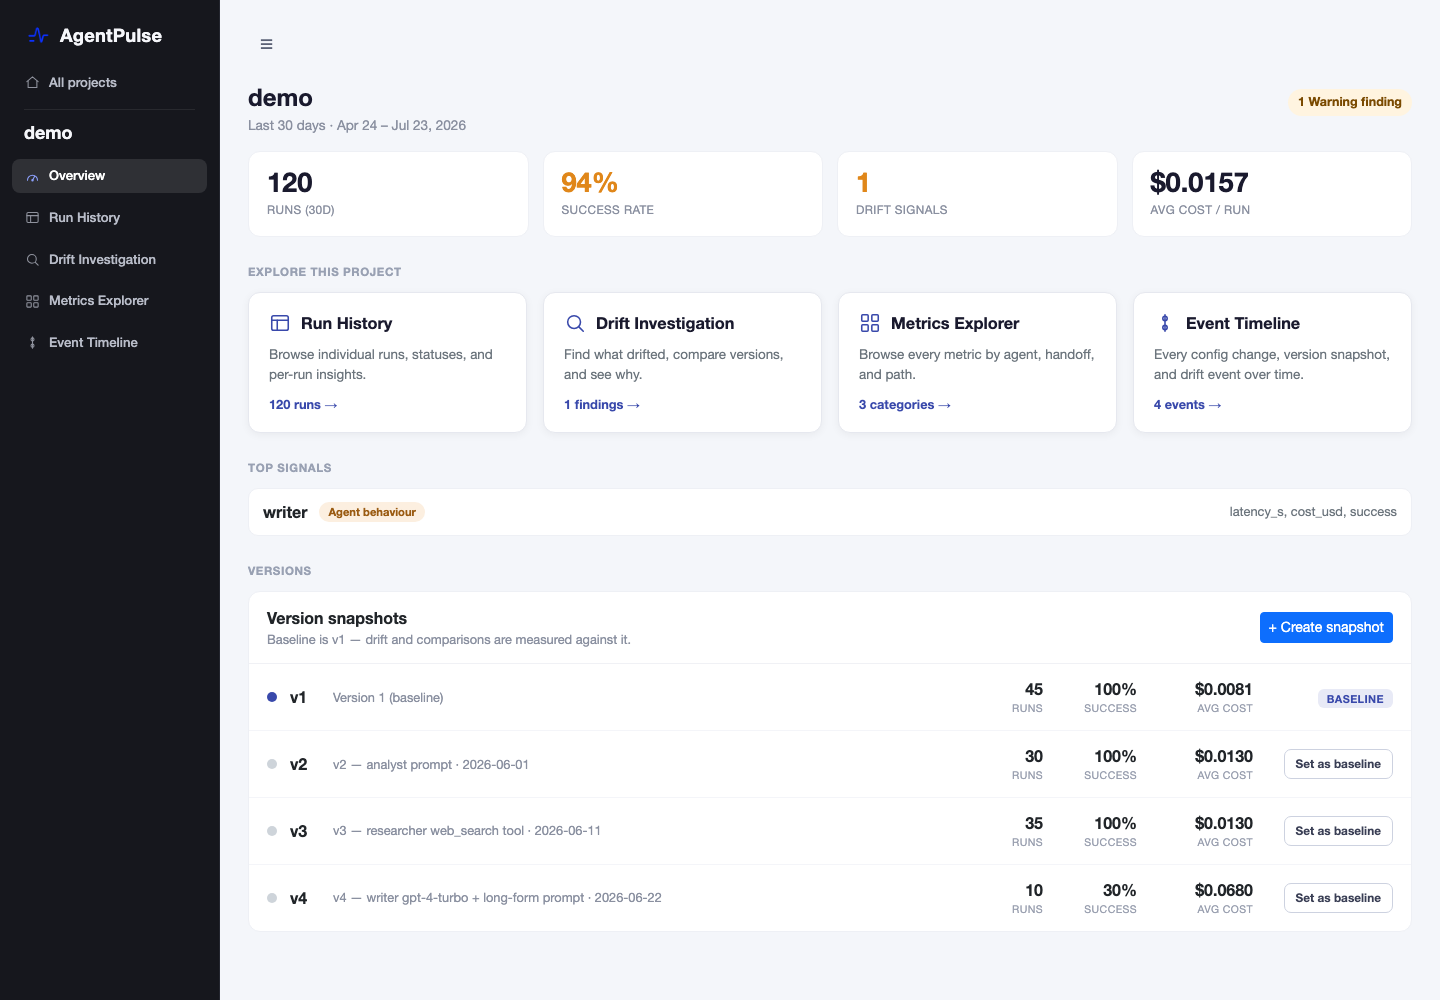
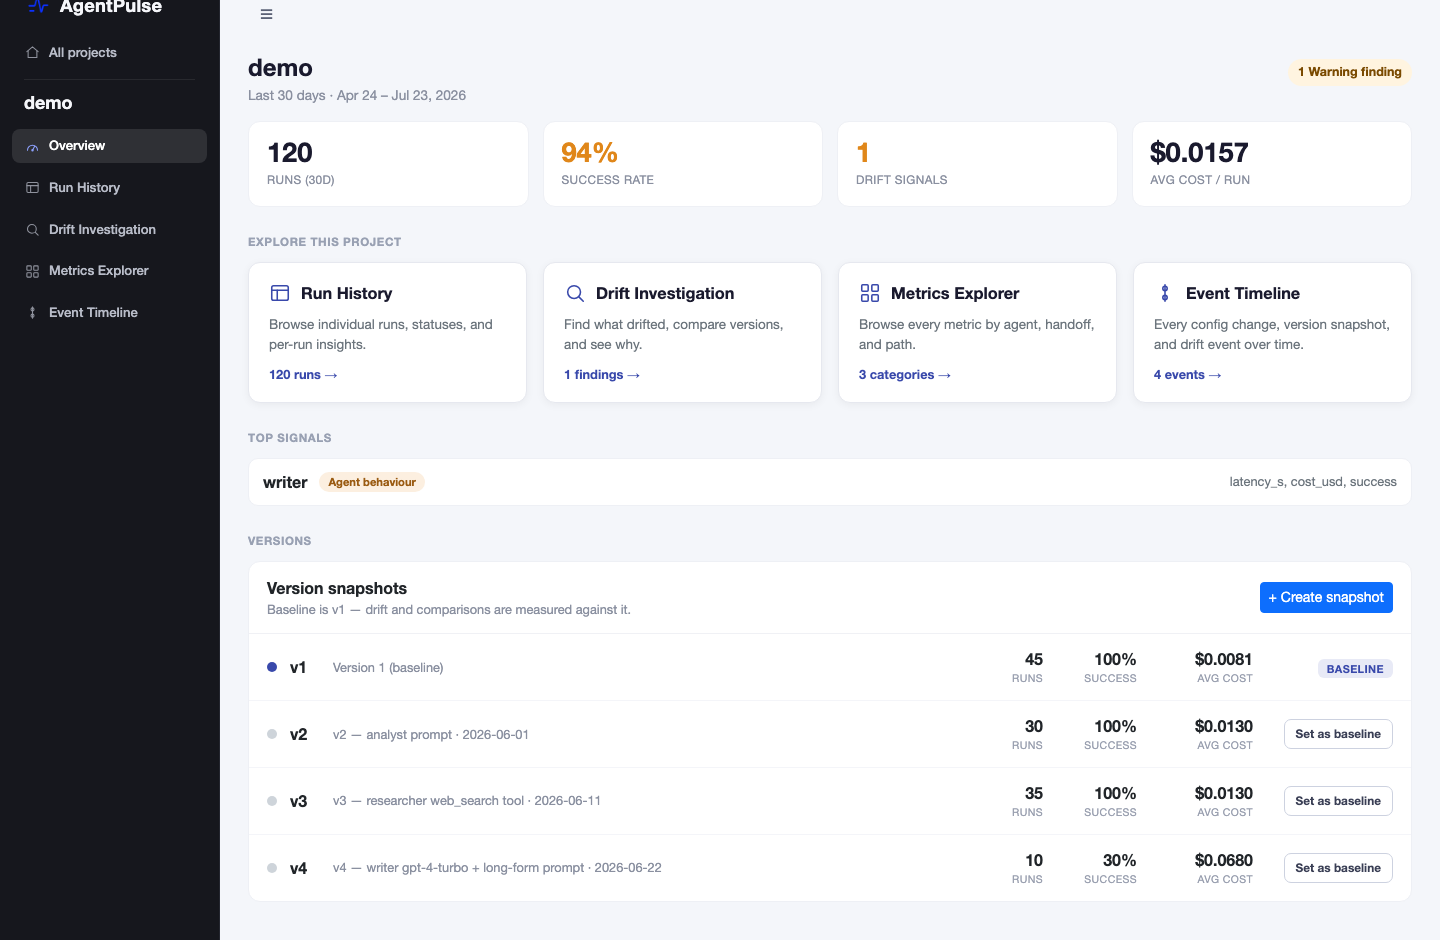
Landing page: two-column hero with tilted dashboard card
Text left, browser-framed overview screenshot floating right with
perspective tilt, glow, and decorative streaks; stacks flat on mobile.

diff --git a/docs/index.html b/docs/index.html
@@ -80,37 +80,57 @@
 
   /* ---- hero ---- */
   .hero {
+    position: relative;
     background:
-      radial-gradient(900px 480px at 15% -12%, rgba(47, 86, 224, .28), transparent 62%),
-      radial-gradient(700px 420px at 88% 6%, rgba(124, 58, 237, .14), transparent 60%),
+      radial-gradient(900px 520px at 12% -10%, rgba(47, 86, 224, .30), transparent 62%),
+      radial-gradient(800px 520px at 96% 45%, rgba(124, 58, 237, .18), transparent 62%),
       var(--dark);
-    color: #fff; padding: 72px 0 0; overflow: hidden;
+    color: #fff; padding: 88px 0 96px; overflow: hidden;
   }
-  .hero-inner { max-width: 780px; }
+  /* decorative light streaks, bottom left */
+  .hero::before {
+    content: ""; position: absolute; left: -160px; bottom: -180px;
+    width: 560px; height: 460px; pointer-events: none;
+    background: repeating-linear-gradient(118deg,
+      transparent 0 40px, rgba(99, 102, 241, .35) 40px 41.5px);
+    transform: rotate(-6deg); filter: blur(.5px); opacity: .5;
+    -webkit-mask-image: radial-gradient(closest-side, #000, transparent 78%);
+    mask-image: radial-gradient(closest-side, #000, transparent 78%);
+  }
+  .hero-grid {
+    display: grid; grid-template-columns: 1.02fr 1fr;
+    gap: 56px; align-items: center; position: relative;
+  }
   h1 {
-    font-size: clamp(30px, 4.6vw, 46px);
-    line-height: 1.15;
+    font-size: clamp(28px, 3.3vw, 40px);
+    line-height: 1.18;
     letter-spacing: -0.02em;
     font-weight: 750;
   }
   h1 .dim { color: #8d97b3; }
   .hero p.lead {
     margin: 22px 0 30px;
-    font-size: 18px;
+    font-size: 17px;
     color: #b9c1d4;
-    max-width: 640px;
   }
   .hero .cta { display: flex; gap: 14px; flex-wrap: wrap; align-items: center; }
-  .hero-shot {
-    margin: 52px auto -2px;
-    max-width: 1060px; padding: 0 24px;
+  .hero-shot { position: relative; }
+  /* soft glow behind the card */
+  .hero-shot::before {
+    content: ""; position: absolute; inset: 6% -4% -2% 2%;
+    background: radial-gradient(closest-side, rgba(47, 86, 224, .38), rgba(124, 58, 237, .16) 60%, transparent);
+    filter: blur(34px); pointer-events: none;
   }
   .browser {
-    border-radius: 14px 14px 0 0;
-    border: 1px solid #2b3450; border-bottom: none;
+    position: relative;
+    border-radius: 14px;
+    border: 1px solid #2b3450;
     overflow: hidden; background: #10141f;
-    box-shadow: 0 -14px 90px rgba(47, 86, 224, .28), 0 -2px 24px rgba(124, 58, 237, .12);
+    box-shadow: 0 30px 80px rgba(5, 8, 18, .55), 0 6px 28px rgba(47, 86, 224, .18);
+    transform: perspective(1600px) rotateY(-7deg) rotateX(1.5deg);
+    transition: transform .35s ease;
   }
+  .hero-shot:hover .browser { transform: perspective(1600px) rotateY(-2deg) rotateX(0deg); }
   .browser-bar {
     display: flex; align-items: center; gap: 7px;
     padding: 11px 16px; background: #161c2b;
@@ -234,6 +254,12 @@
   footer a { color: #b9c1d4; }
   footer .right { margin-left: auto; display: flex; gap: 22px; }
 
+  @media (max-width: 960px) {
+    .hero { padding: 60px 0 64px; }
+    .hero-grid { grid-template-columns: 1fr; gap: 40px; }
+    .browser, .hero-shot:hover .browser { transform: none; }
+    .hero-shot::before { inset: 10% 0 0 0; }
+  }
   @media (max-width: 860px) {
     .steps, .grid3 { grid-template-columns: 1fr; }
     .feature, .feature.flip, .split { grid-template-columns: 1fr; gap: 26px; }
@@ -269,21 +295,23 @@
 </header>
 
 <div class="hero">
-  <div class="wrap hero-inner">
-    <h1><span class="dim">Traces tell you what happened.</span><br>AgentPulse tells you where to start investigating.</h1>
-    <p class="lead">An open-source reference implementation of drift investigation for multi-agent systems. When an outcome degrades, AgentPulse traces the drift upstream to the component where it originated: which agent drifted, why, and what to check next.</p>
-    <div class="cta">
-      <a class="btn btn-primary" href="https://calendly.com/nick-proveai/agent-pulse-demo">Set up a demo</a>
-      <a class="btn btn-ghost-dark" href="https://github.com/prove-ai/agentpulse">View on GitHub</a>
-    </div>
-  </div>
-  <div class="hero-shot">
-    <div class="browser">
-      <div class="browser-bar">
-        <span class="bdot r"></span><span class="bdot y"></span><span class="bdot g"></span>
-        <span class="url">localhost:5001 · demo</span>
+  <div class="wrap hero-grid">
+    <div class="hero-inner">
+      <h1><span class="dim">Traces tell you what happened.</span><br>AgentPulse tells you where to start investigating.</h1>
+      <p class="lead">An open-source reference implementation of drift investigation for multi-agent systems. When an outcome degrades, AgentPulse traces the drift upstream to the component where it originated: which agent drifted, why, and what to check next.</p>
+      <div class="cta">
+        <a class="btn btn-primary" href="https://calendly.com/nick-proveai/agent-pulse-demo">Set up a demo</a>
+        <a class="btn btn-ghost-dark" href="https://github.com/prove-ai/agentpulse">View on GitHub</a>
       </div>
-      <img src="screenshots/overview.png" alt="AgentPulse project overview showing 120 runs, success rate, an active drift signal, top signals, and version snapshots with per-version success and cost">
+    </div>
+    <div class="hero-shot">
+      <div class="browser">
+        <div class="browser-bar">
+          <span class="bdot r"></span><span class="bdot y"></span><span class="bdot g"></span>
+          <span class="url">localhost:5001 · demo</span>
+        </div>
+        <img src="screenshots/overview.png" alt="AgentPulse project overview showing 120 runs, success rate, an active drift signal, top signals, and version snapshots with per-version success and cost">
+      </div>
     </div>
   </div>
 </div>